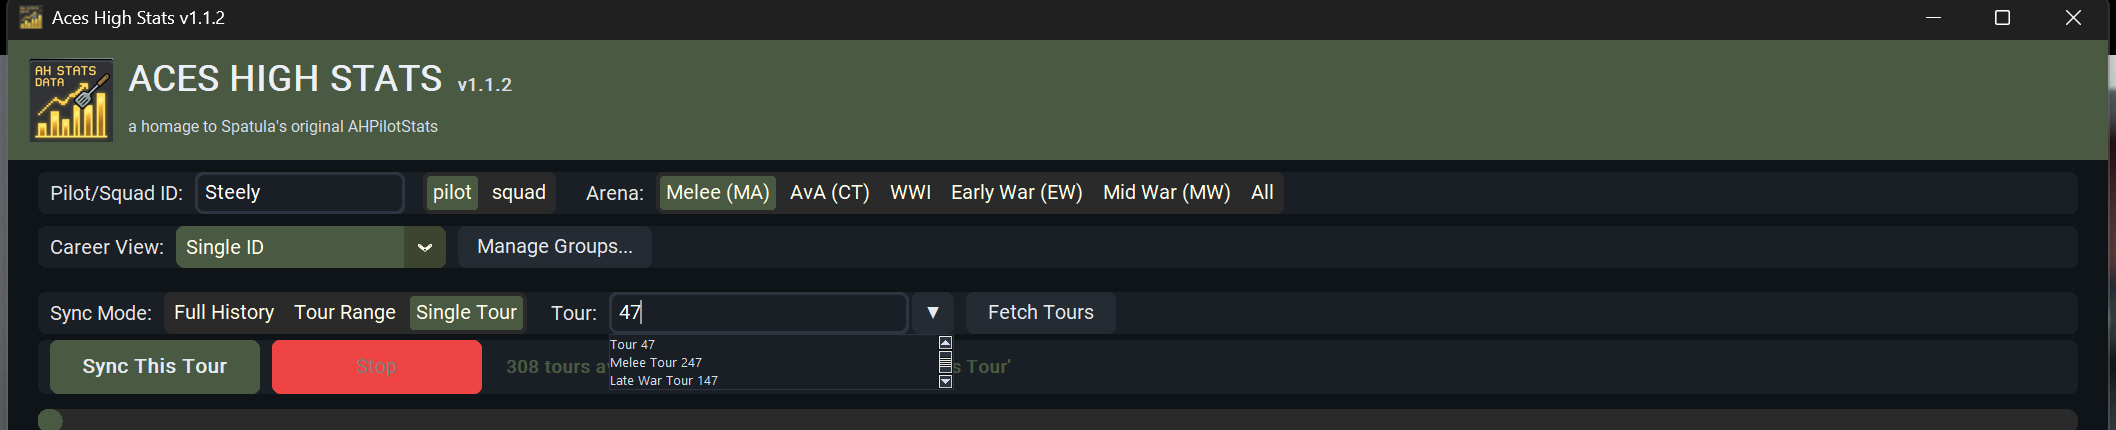
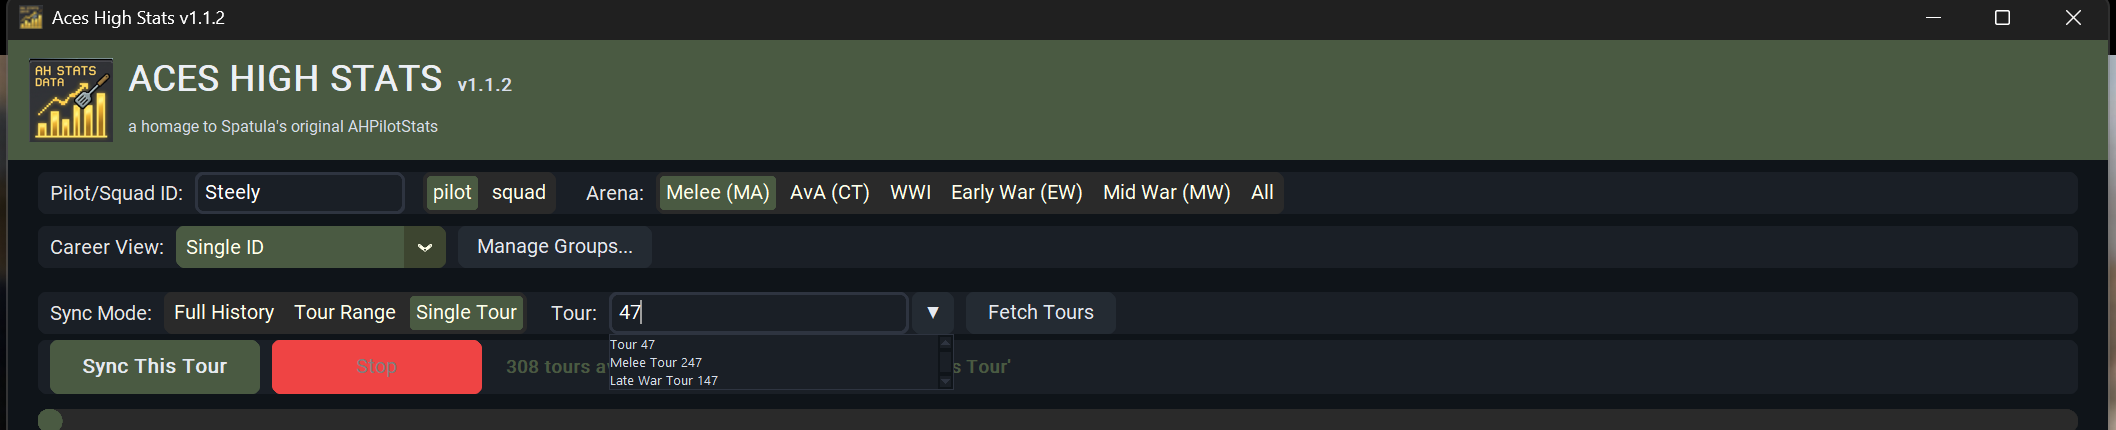
Style the scrollbars the theme thought it had already styled
theme.style_treeview() configured "Vertical.TScrollbar" and
"Horizontal.TScrollbar", which are names no widget uses: a ttk.Scrollbar
keeps the bare class name as its style and picks only its layout by
orientation. So the dark colours applied to nothing, and every scrollbar
in the app - the grids and the tour dropdown alike - kept clam's light
grey trough, ridged thumb and 3D arrows in the middle of a dark window.

Styling "TScrollbar" fixes it. clam also bevels each element with
lightcolor/darkcolor, which outlined the thumb and both arrows in
near-white, so those go dark too, along with the grip ridges.

Screenshots refreshed to match.

Changed region(s): [[0.9981, 0.1209, 1.0, 1.0], [0.0, 0.2116, 0.0312, 1.0], [0.4367, 0.786, 0.4679, 0.907]]

diff --git a/tests/test_widgets.py b/tests/test_widgets.py
@@ -255,6 +255,39 @@ class SearchableSelectTests(unittest.TestCase):
         self.assertEqual(self.widget._filtered, ["Tour 12", "Tour 13"])
 
 
+class ScrollbarStyleTests(unittest.TestCase):
+    """The dropdown and every grid share one ttk scrollbar style.
+
+    theme.py styled "Vertical.TScrollbar" and "Horizontal.TScrollbar"
+    only, which are names no widget uses: a ttk.Scrollbar keeps the bare
+    class name as its style and picks its layout by orientation. So the
+    configuration applied to nothing and every scrollbar in a dark window
+    rendered in clam's light grey. Drop "TScrollbar" from the loop in
+    theme.style_treeview() and this fails."""
+
+    def test_the_class_style_is_the_one_that_gets_styled(self):
+        from tkinter import ttk
+
+        from ahstats import theme
+
+        style = ttk.Style(_root)
+        self.assertEqual(style.lookup("TScrollbar", "troughcolor"), theme.BG_DARK)
+        self.assertEqual(style.lookup("TScrollbar", "background"), theme.BORDER_GRAY)
+        self.assertEqual(style.lookup("TScrollbar", "arrowcolor"), theme.TEXT_BODY)
+
+    def test_the_bevel_colors_are_dark_too(self):
+        """Left at clam's defaults these outline the thumb and both
+        arrows in near-white, which is most of what looked broken."""
+        from tkinter import ttk
+
+        from ahstats import theme
+
+        style = ttk.Style(_root)
+        for option in ("lightcolor", "darkcolor", "bordercolor"):
+            with self.subTest(option=option):
+                self.assertEqual(style.lookup("TScrollbar", option), theme.BG_DARK)
+
+
 if __name__ == "__main__":
     unittest.main()
 

diff --git a/ahstats/theme.py b/ahstats/theme.py
@@ -75,18 +75,32 @@ def style_treeview() -> None:
 
     # Scrollbars are ttk too, so they need the same hand-styling or they
     # come out in default light grey against the dark grids.
-    for orient in ("Vertical", "Horizontal"):
+    #
+    # "TScrollbar" has to be in this list. A ttk.Scrollbar keeps the bare
+    # class name as its style whatever -orient says: only its *layout* is
+    # picked by orientation. Styling just Vertical/Horizontal therefore
+    # configured two names nothing was using, and every scrollbar in the
+    # app - the grids and the tour dropdown alike - kept clam's light
+    # grey trough and 3D arrows in the middle of a dark window.
+    for name in ("TScrollbar", "Vertical.TScrollbar", "Horizontal.TScrollbar"):
         style.configure(
-            f"{orient}.TScrollbar",
+            name,
             background=BORDER_GRAY,
             troughcolor=BG_DARK,
             bordercolor=BG_DARK,
             arrowcolor=TEXT_BODY,
             borderwidth=0,
+            relief="flat",
+            gripcount=0,  # clam draws grip ridges on the thumb by default
+            # clam bevels every element with these two; left at their
+            # defaults they outline the thumb and both arrows in near-white.
+            lightcolor=BG_DARK,
+            darkcolor=BG_DARK,
         )
         style.map(
-            f"{orient}.TScrollbar",
-            background=[("active", ACCENT_OLIVE_HOVER)],
+            name,
+            background=[("active", ACCENT_OLIVE_HOVER), ("disabled", PANEL_BG)],
+            arrowcolor=[("disabled", BORDER_GRAY)],
         )
 
 
